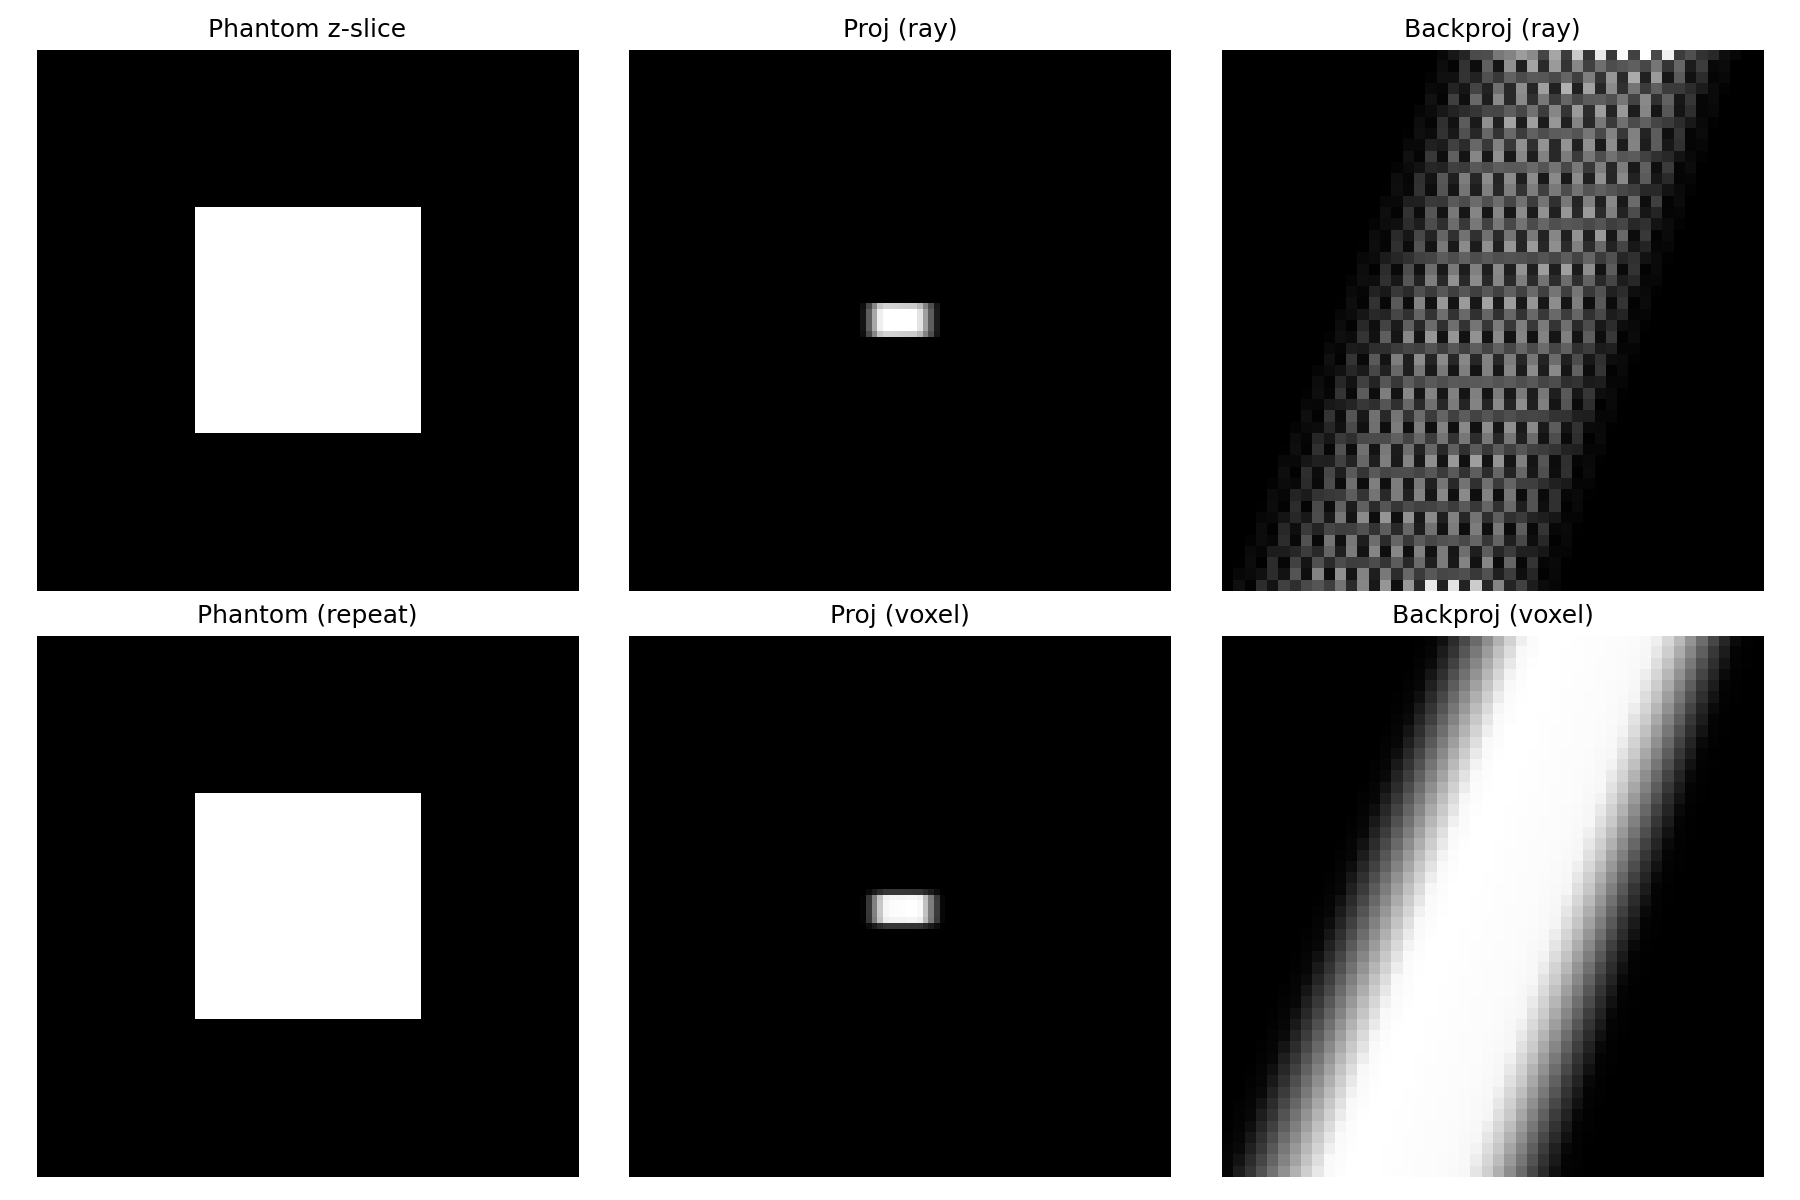
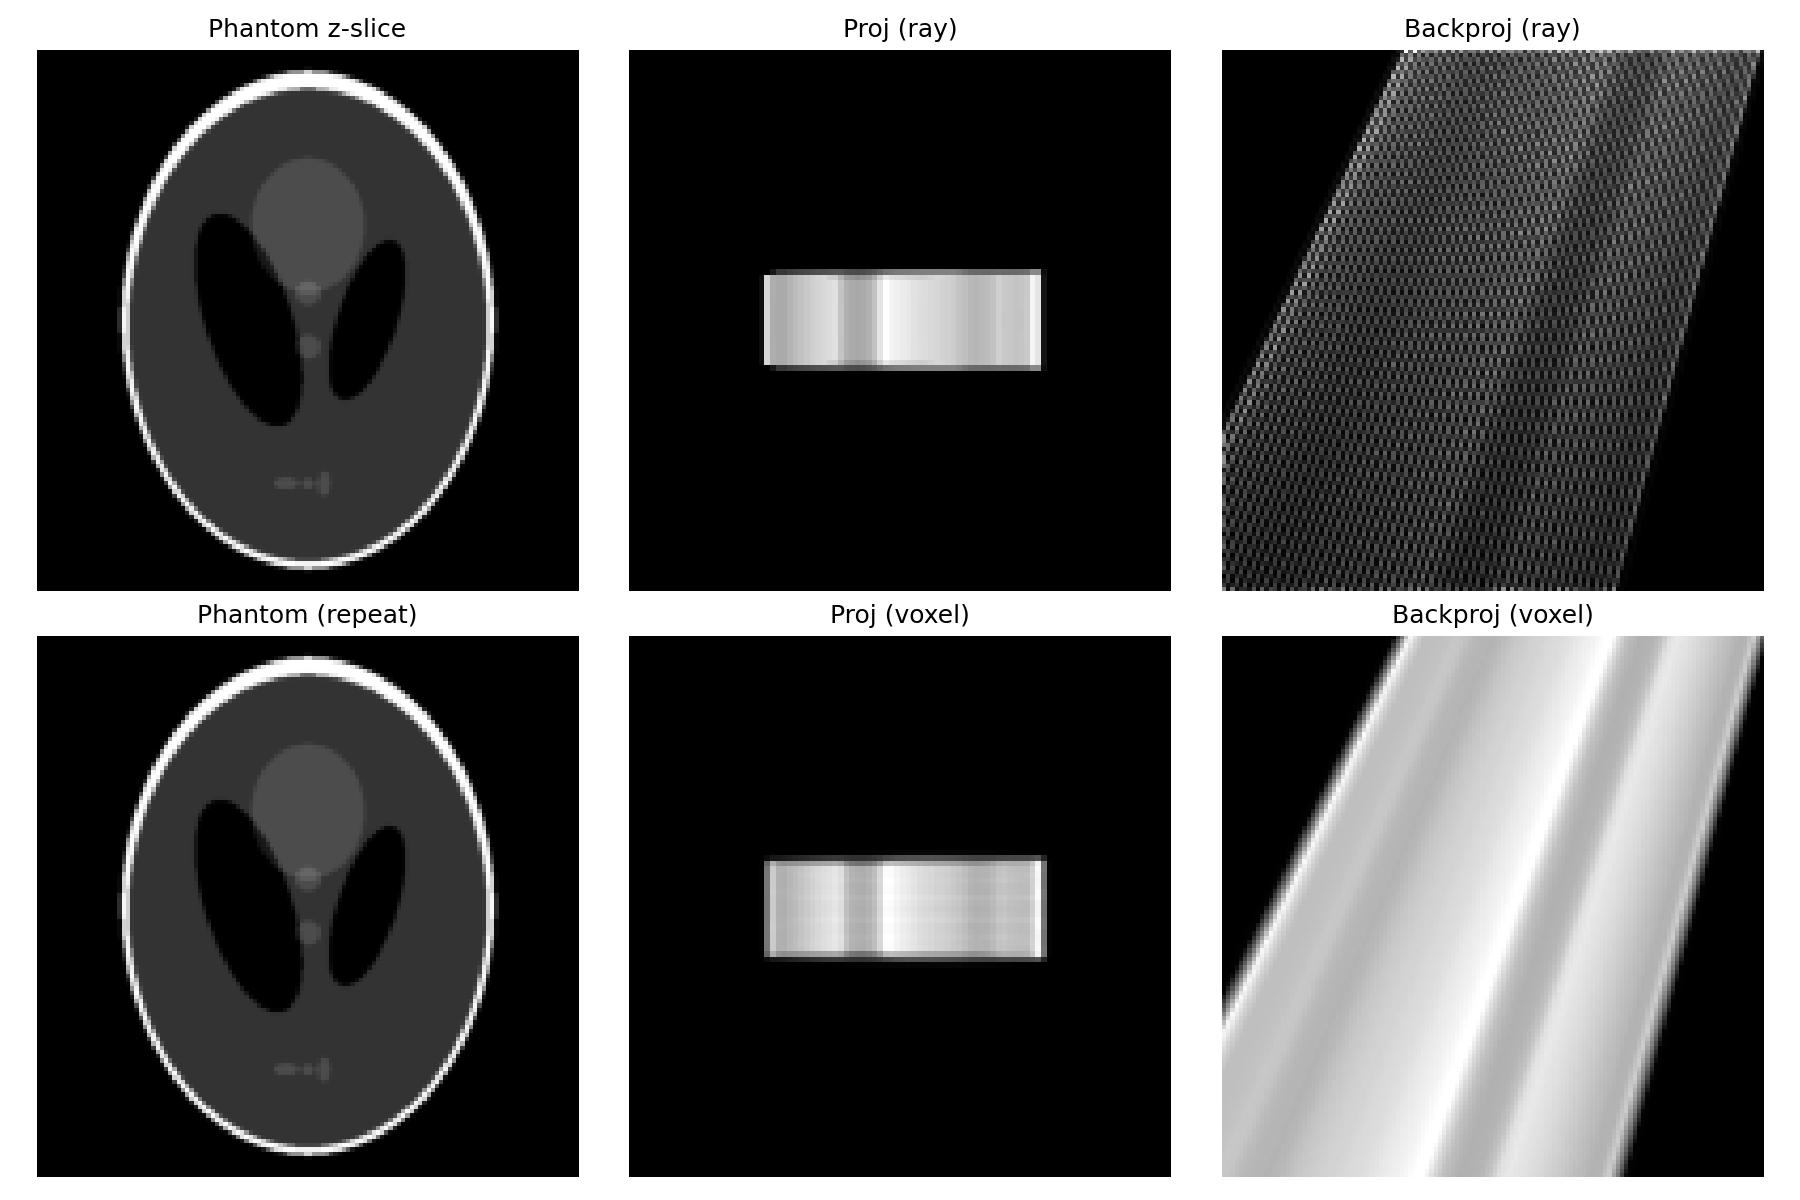
update test phantom

diff --git a/ct_conebeam_class.py b/ct_conebeam_class.py
@@ -11,6 +11,8 @@
 from __future__ import annotations
 import numpy as np
 from typing import Tuple, Optional
+from skimage.data import shepp_logan_phantom
+from skimage.transform import resize
 
 class CTProjector:
     def __init__(self,
@@ -328,6 +330,13 @@ class CTProjector:
                     u = p[0]/p[2]; v = p[1]/p[2]
                     vol[z, y, x] += self._bilinear(proj, u, v)
         return vol
+    
+    @staticmethod
+    def shepp_logan_3d(nx: int, ny: int, nz: int) -> np.ndarray:
+        phantom = shepp_logan_phantom()
+        phantom_3d = np.stack([phantom]*nz, axis=0)
+        phantom_3d = resize(phantom_3d, (nz, ny, nx), order=1, mode='constant', cval=0.0, anti_aliasing=True)
+        return phantom_3d.astype(np.float32)
 
 
 # ------------------- One-angle quick test -------------------
@@ -335,7 +344,7 @@ if __name__ == "__main__":
     import matplotlib.pyplot as plt
 
     # Small phantom (cube) to keep runtime fast
-    Nx = Ny = 48
+    Nx = Ny = 128
     Nz = 32
     nu = nv = 96
     vox = 1.0
@@ -345,12 +354,17 @@ if __name__ == "__main__":
     angle = np.deg2rad(angle_deg)
 
     # Build phantom
-    vol = np.zeros((Nz, Ny, Nx), dtype=np.float32)
-    vol[Nz//2-5:Nz//2+5, Ny//2-10:Ny//2+10, Nx//2-10:Nx//2+10] = 1.0
+    # vol = np.zeros((Nz, Ny, Nx), dtype=np.float32)
+    # vol[Nz//2-5:Nz//2+5, Ny//2-10:Ny//2+10, Nx//2-10:Nx//2+10] = 1.0
+    
+    
+    
 
     # Projector
     ct = CTProjector(nu, nv, det_w, det_h, SID, SDD, beam_axis="y",
                      use_lookat=True, voxel_size_mm=vox)
+    
+    vol = ct.shepp_logan_3d(nx=Nx, ny=Ny, nz=Nz)
 
     # Ray-driven forward/back
     proj_ray = ct.forward_ray(vol, angle, step_mm=0.75*vox)
